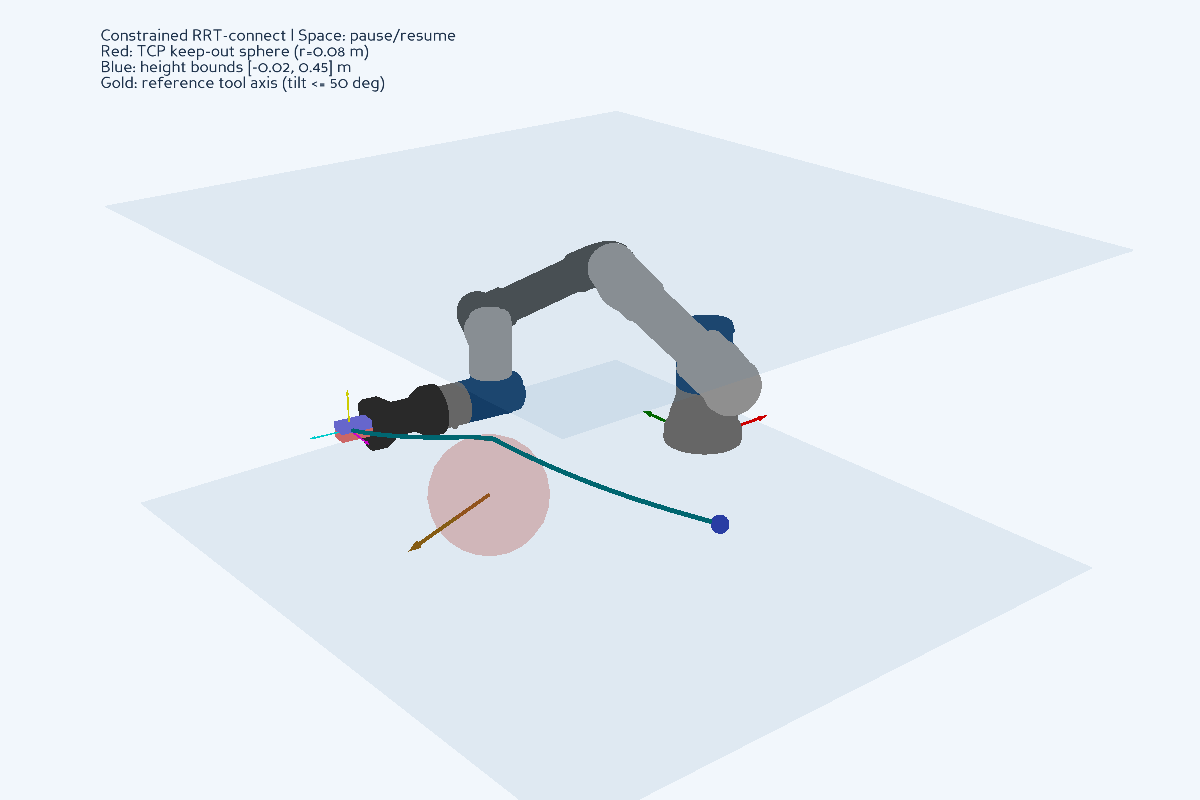
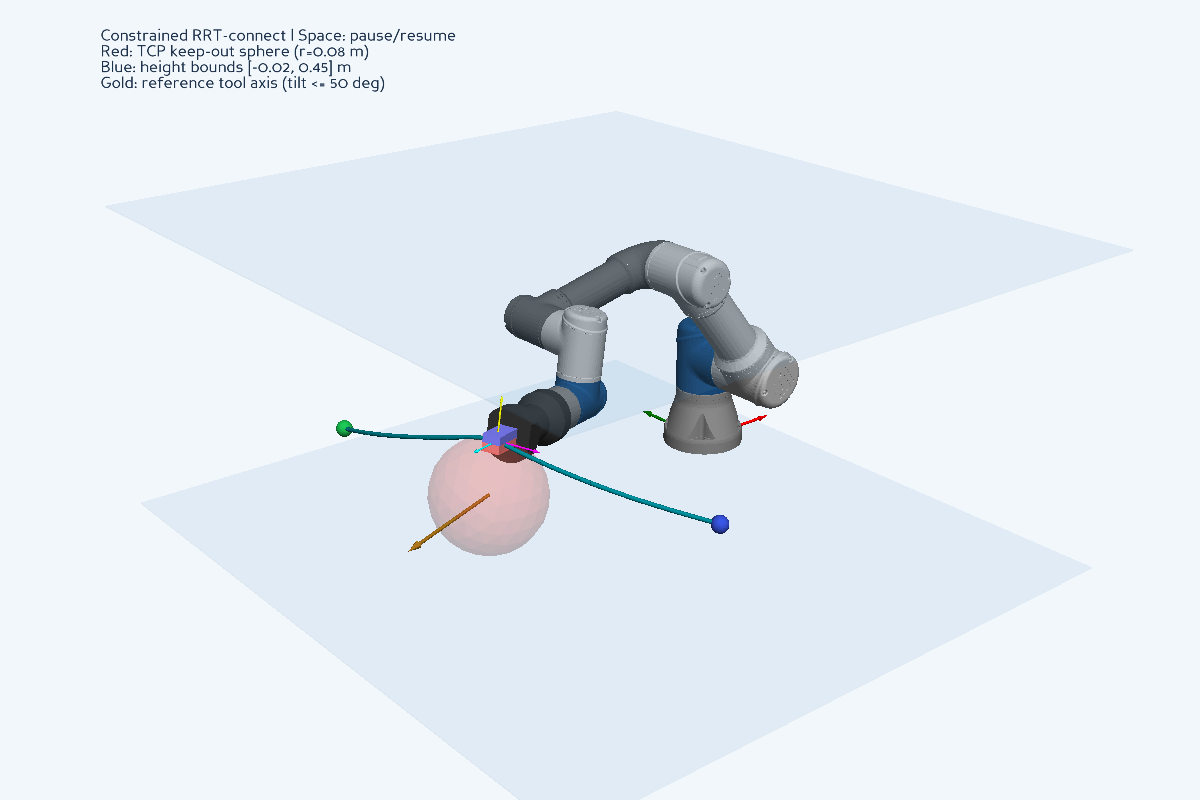
fix: detect incompatible native link poses in the active interpreter

diff --git a/examples/constrained_rrt_connect_wrs.py b/examples/constrained_rrt_connect_wrs.py
@@ -17,12 +17,26 @@ from wrs.robot_sim.robots.ur3e_dual.ur3e_rtqhe import UR3e_RtqHE
 from direct.gui.OnscreenText import OnscreenText
 
 
+def check_link_poses(robot):
+    """发现旧 native 包时立即报错，避免用错位的网格和碰撞体规划。"""
+    for joint in robot.manipulator.jlc.jnts:
+        expected_pos = joint.gl_pos_q + joint.gl_rotmat_q @ joint.lnk.loc_pos
+        expected_rot = joint.gl_rotmat_q @ joint.lnk.loc_rotmat
+        if (not np.allclose(joint.lnk.gl_pos, expected_pos, rtol=0, atol=1e-9)
+                or not np.allclose(joint.lnk.gl_rotmat, expected_rot, rtol=0, atol=1e-9)):
+            backend_file = sys.modules[type(robot.manipulator.jlc).__module__].__file__
+            raise RuntimeError(
+                "连杆坐标错误：请更新当前解释器中的 native 后端。\n"
+                f"Python: {sys.executable}\nBackend: {backend_file}")
+
+
 def main():
     random.seed(7)
     np.random.seed(7)
     robot = UR3e_RtqHE(enable_cc=True)
     middle = np.array([0., -.8, 1.2, -.4, 1.2, 0.])
     robot.goto_given_conf(middle)
+    check_link_poses(robot)
     start, goal = middle.copy(), middle.copy()
     start[0], goal[0] = -.5, .5
 

diff --git a/examples/README_constrained_rrt.md b/examples/README_constrained_rrt.md
@@ -105,6 +105,9 @@ Panda3D 窗口中空格暂停/继续，鼠标操作沿用 WRS 的视角控制。
 [连杆局部坐标修复](https://github.com/chenhaox/wrs-jlchain-native/tree/codex/fix-link-local-poses)
 的版本。旧版代理忽略了连杆相对关节的平移和旋转，会同时造成网格脱节和碰撞位置错误；
 正确的变换是 `T_world_link = T_world_joint @ T_joint_link`。
+更新时请使用 **IDE 实际选中的 Python 解释器**，它可能与终端的默认 `python` 不同。
+示例会在开始规划前检查连杆位姿；若加载了旧后端，立即停止，并在错误信息中
+列出实际的 Python 可执行文件和后端模块路径，避免继续使用错位的碰撞模型。
 
 ![UR3e 约束及最终路径](assets/constrained_rrt_ur3e.png)
 
